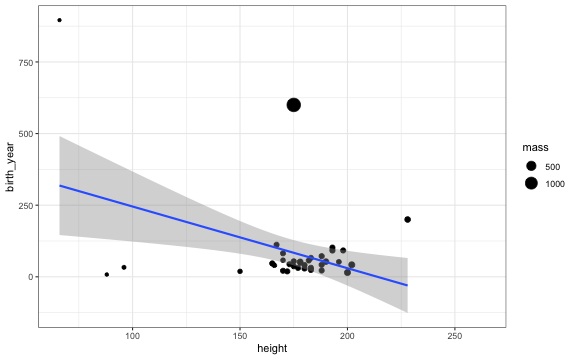
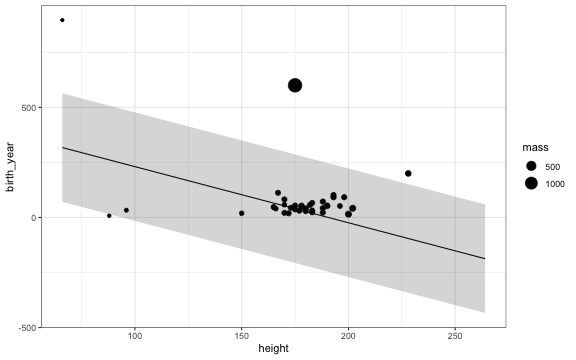
add non-smooth lm

diff --git a/6-data-viz.html b/6-data-viz.html
@@ -233,12 +233,34 @@ ggplot( aes(x = height, y = birth_year) ) +
 
 ```r
 starwars %&gt;% 
+  mutate(height_estimate = m1$estimate[1] + height*m1$estimate[2] )  %&gt;% 
 ggplot( aes(x = height, y = birth_year) ) + 
   geom_point( aes(size = mass) ) +  
-  geom_smooth(formula =  "y ~ x", method = "lm")
+  geom_line( aes(y = height_estimate) ) + 
+  geom_ribbon( aes( ymax = height_estimate + 1.96*sum(m1$std.error) ,
+                    ymin = height_estimate - 1.96*sum(m1$std.error)),
+               alpha =.2)
 ```
 
 &lt;img src="/Users/judgelord/811/Figs/lm-1.png" style="display: block; margin: auto;" /&gt;
+
+*Note, for simplicity, I set mass equal to 0. What would be a better approach?
+
+---
+
+## `geom_smooth()` conditional mean
+
+
+```r
+starwars %&gt;% 
+ggplot( aes(x = height, y = birth_year) ) + 
+  geom_point( aes(size = mass) ) +  
+  geom_smooth(formula =  "y ~ x", method = lm)
+```
+
+&lt;img src="/Users/judgelord/811/Figs/smooth-1.png" style="display: block; margin: auto;" /&gt;
+
+(quick &amp; dirty bivariate regression)
 
 ---
 
@@ -252,7 +274,7 @@ ggplot( aes(x = height, y = birth_year) ) +
   geom_smooth(formula =  "y ~ x", method = "lm")
 ```
 
-&lt;img src="/Users/judgelord/811/Figs/lm-drop-outlier-1.png" style="display: block; margin: auto;" /&gt;
+&lt;img src="/Users/judgelord/811/Figs/smooth-drop-outlier-1.png" style="display: block; margin: auto;" /&gt;
 
 ---
 
@@ -266,7 +288,7 @@ ggplot( aes(x = height, y = birth_year) ) +
   geom_smooth(formula =  "y ~ x", method = "lm")
 ```
 
-&lt;img src="/Users/judgelord/811/Figs/lm-drop-outlier2-1.png" style="display: block; margin: auto;" /&gt;
+&lt;img src="/Users/judgelord/811/Figs/smooth-drop-outlier2-1.png" style="display: block; margin: auto;" /&gt;
 
 ---
 
@@ -281,7 +303,7 @@ ggplot( aes(x = height, y = birth_year) ) +
   geom_smooth(formula =  "y ~ x", method = "lm", aes(color = Human) )
 ```
 
-&lt;img src="/Users/judgelord/811/Figs/lm-by-group-1.png" style="display: block; margin: auto;" /&gt;
+&lt;img src="/Users/judgelord/811/Figs/smooth-by-group-1.png" style="display: block; margin: auto;" /&gt;
 
 ---
 
